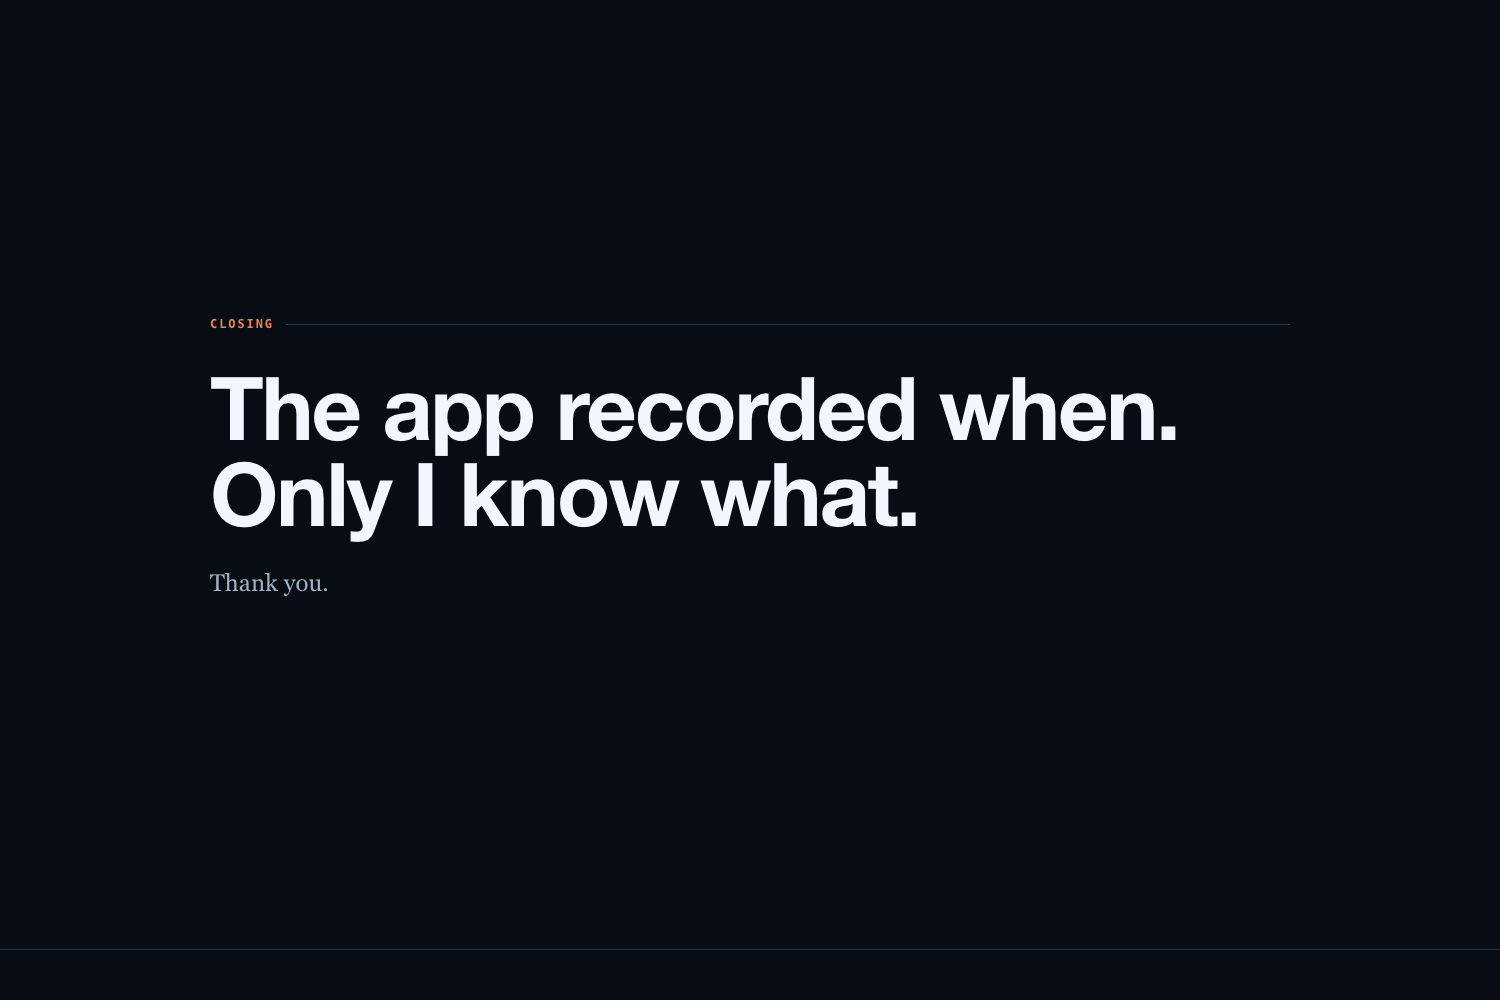
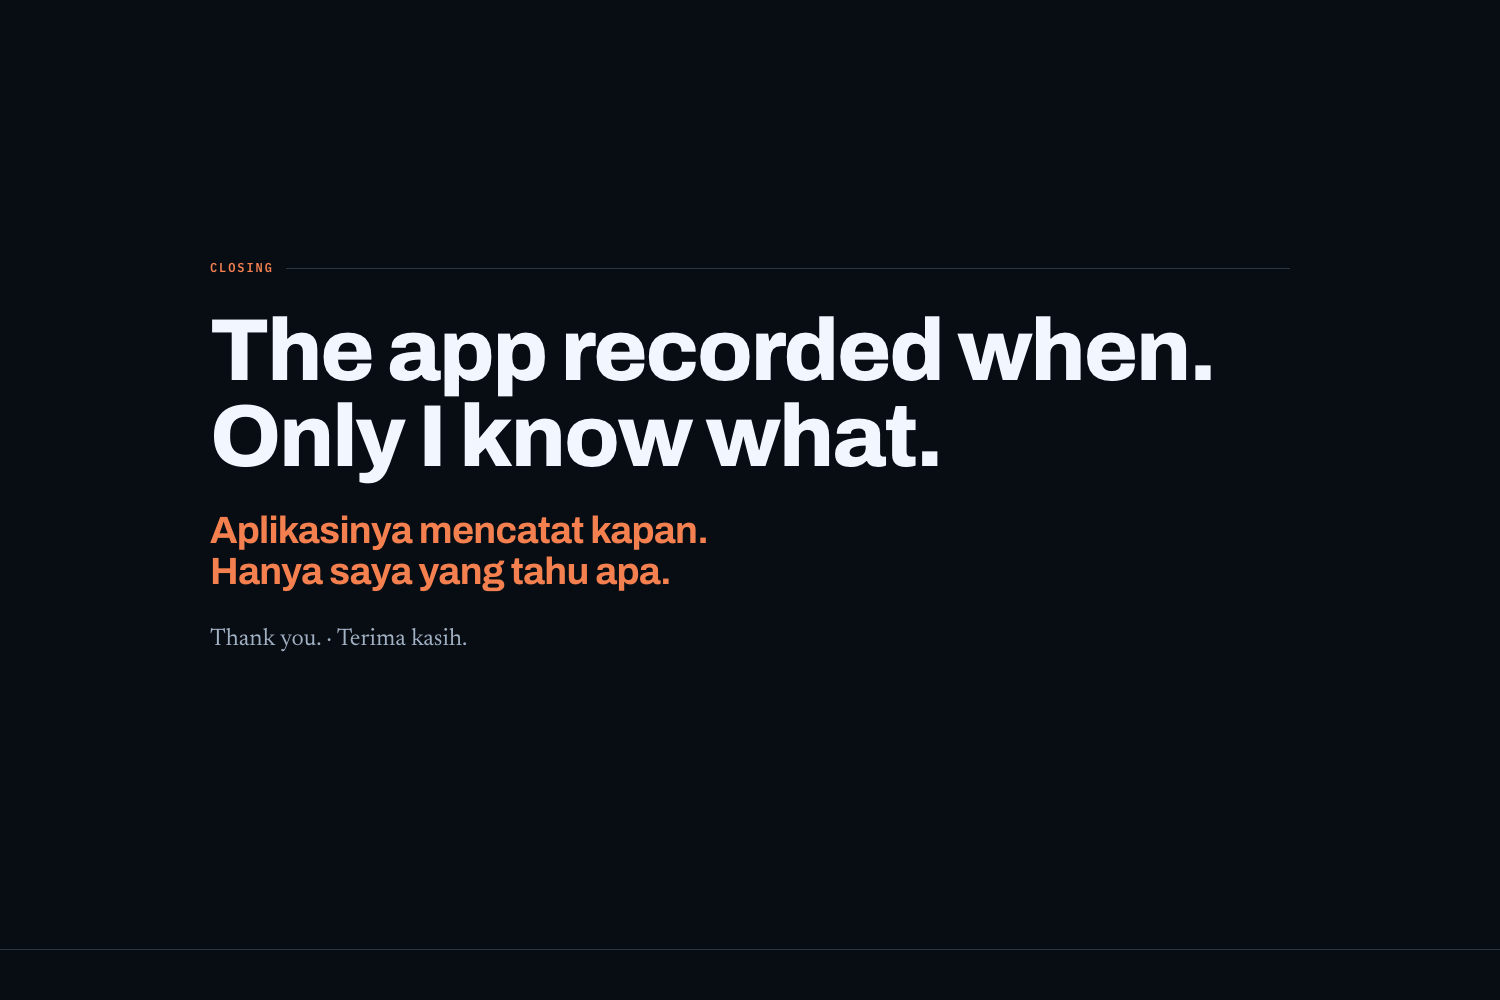
Make the closing slide bilingual
The line an Indonesian-speaking room will actually hear now appears on
the slide in the accent colour, under the English.

Changed region(s): [[0.1227, 0.31, 0.7973, 0.589], [0.1533, 0.62, 0.3067, 0.651], [0.1533, 0.248, 0.184, 0.279]]

diff --git a/design/talking-points.html b/design/talking-points.html
@@ -375,6 +375,16 @@
   }
   .readout .say { font-size: 14.5px; color: var(--ink); }
 
+  .bilingual {
+    font-family: var(--display);
+    font-weight: 700;
+    font-size: clamp(22px, 3.2vw, 38px);
+    line-height: 1.08;
+    letter-spacing: -.02em;
+    color: var(--accent);
+    text-wrap: balance;
+  }
+
   .pull {
     font-family: var(--display);
     font-weight: 700;
@@ -727,7 +737,8 @@ complete.</div>
     <div class="inner">
       <div class="eyebrow">Closing</div>
       <h1>The app recorded&nbsp;when.<br>Only I know what.</h1>
-      <p class="lede">Thank you.</p>
+      <p class="bilingual">Aplikasinya mencatat kapan.<br>Hanya saya yang tahu apa.</p>
+      <p class="lede">Thank you. &middot; Terima kasih.</p>
     </div>
   </section>
 
